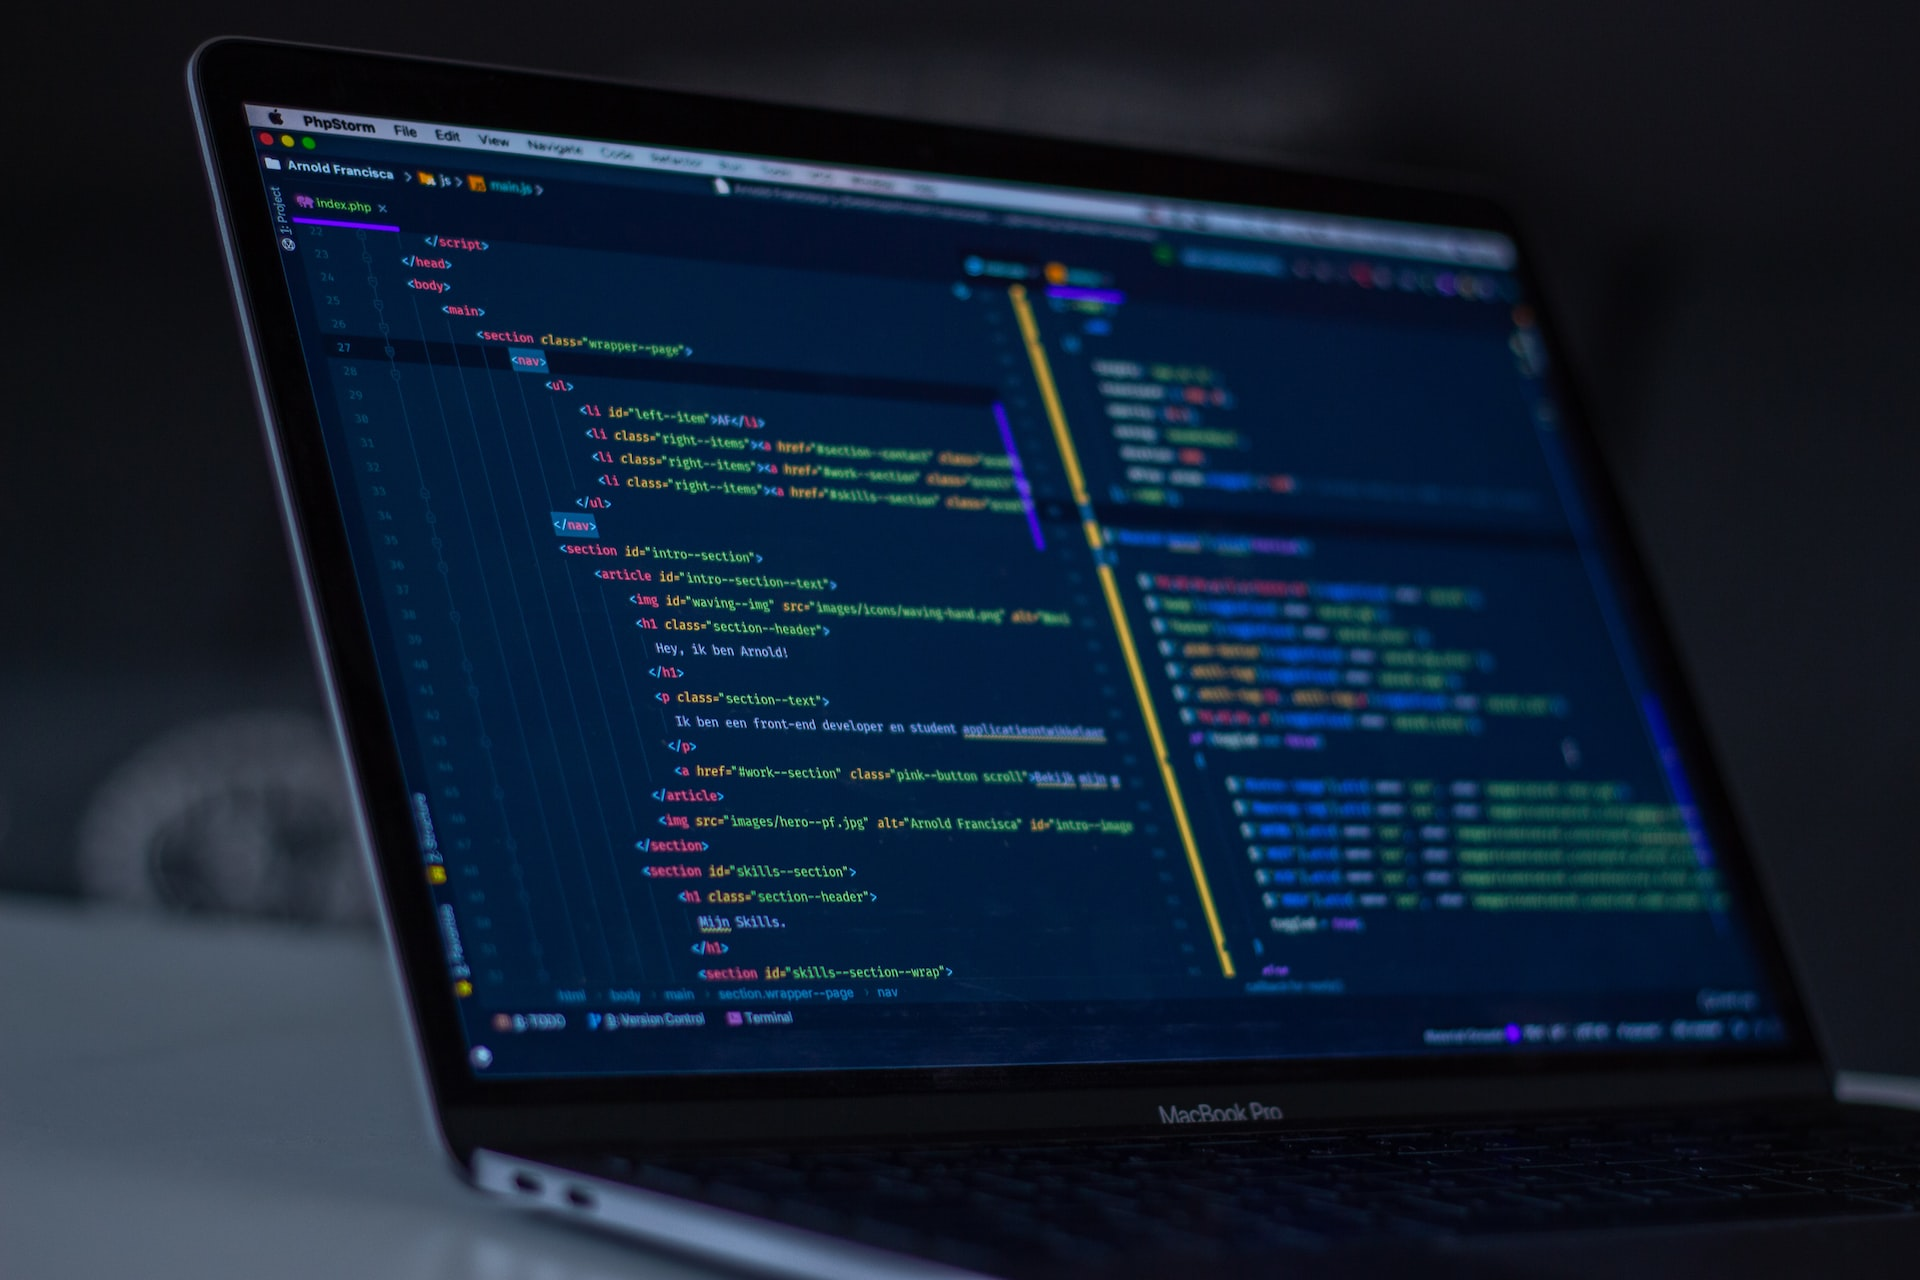
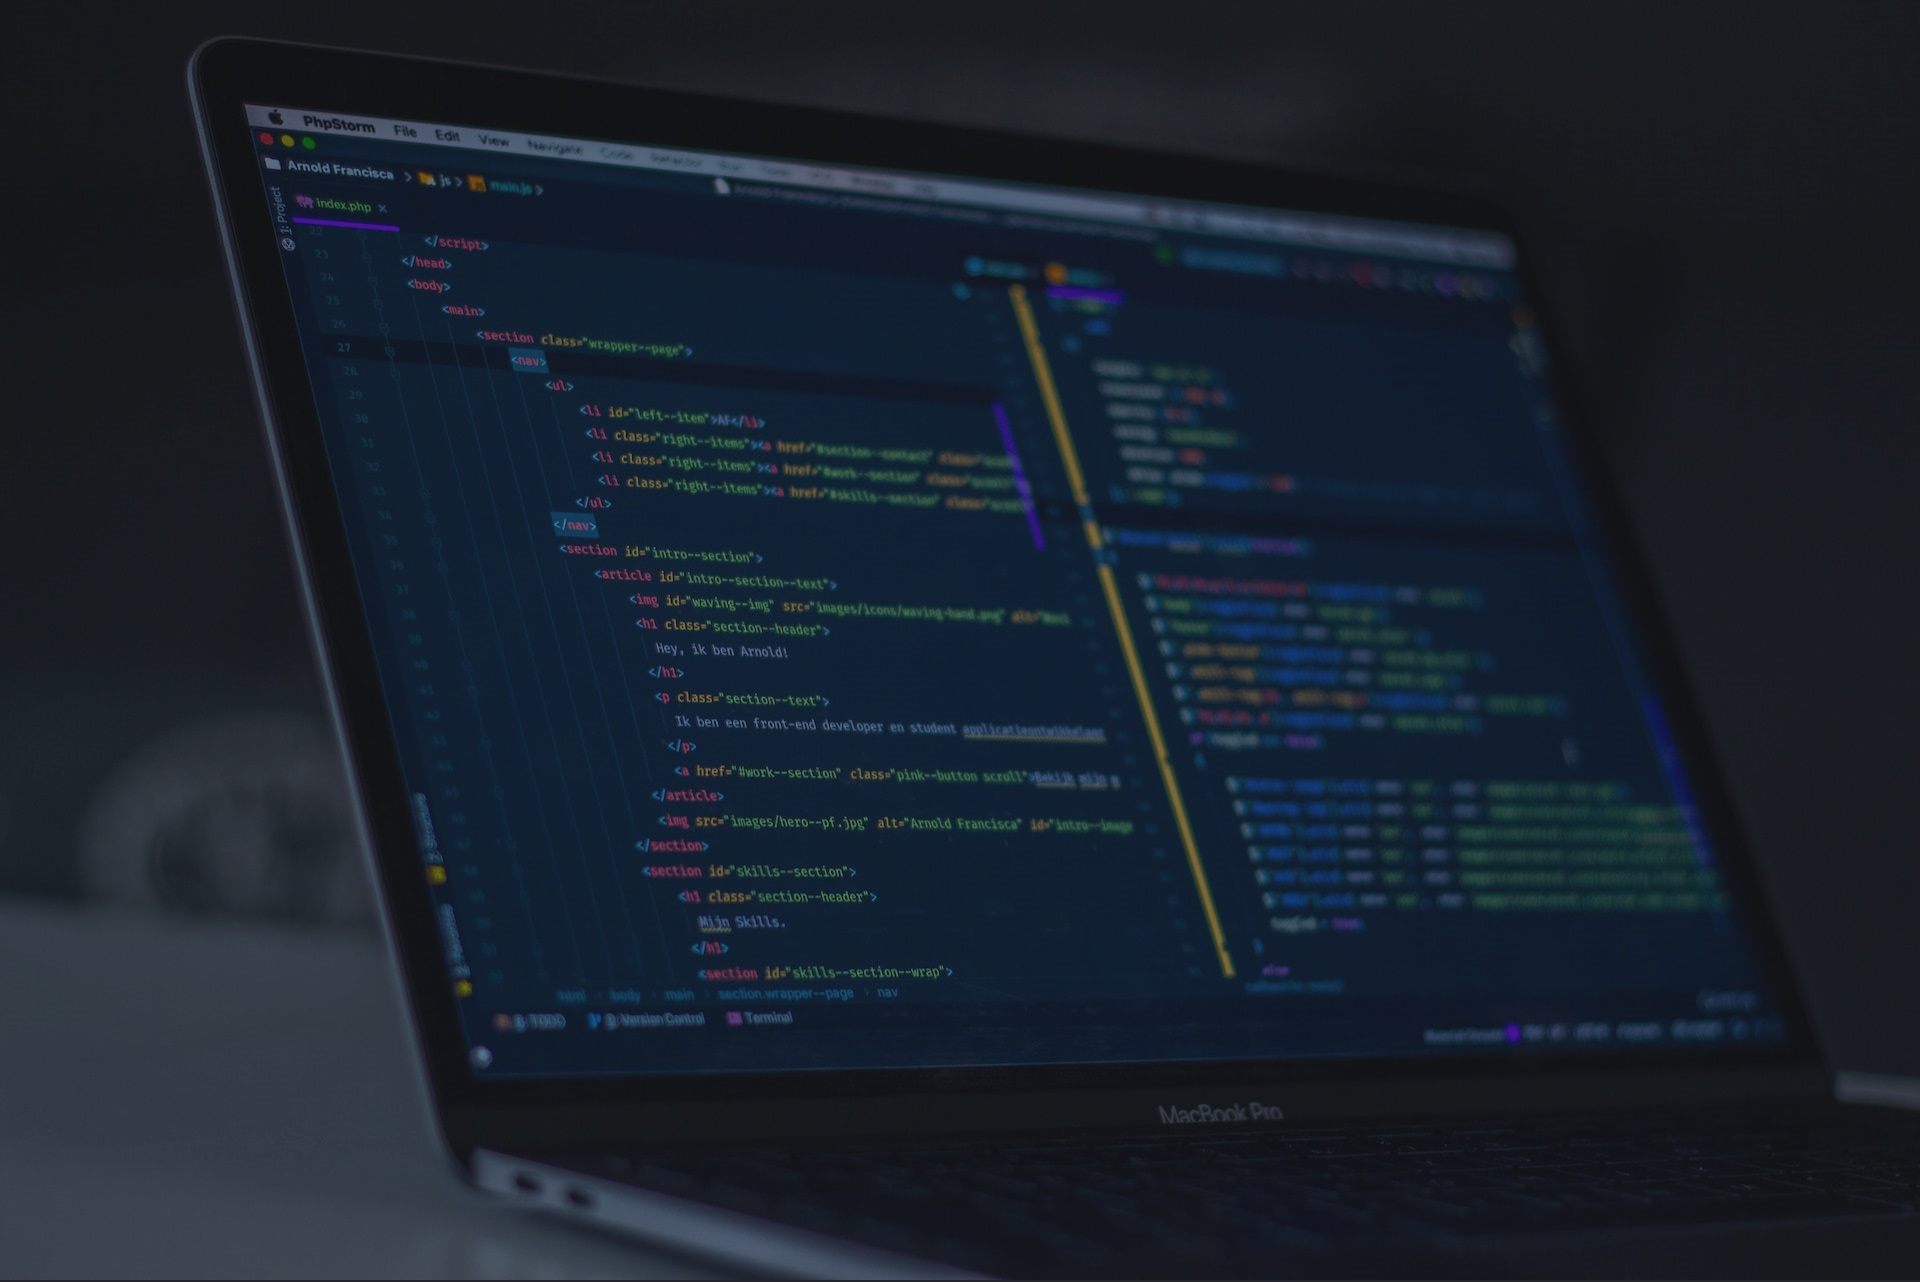
feat(hero): improve seo and image with rendering opacity via img file

diff --git a/src/components/sections/Hero/Hero.tsx b/src/components/sections/Hero/Hero.tsx
@@ -3,8 +3,8 @@ import Image from "next/image";
 
 // Functions
 const Hero = () => (
-  <section className="relative flex h-full min-h-[60vh] flex-col justify-end bg-[#212529]">
-    <div className="page-width z-10 flex flex-col gap-4 p-24">
+  <section className="relative flex h-full min-h-[60vh] flex-col justify-end bg-[url(/img/hero-bg.jpg)] bg-cover bg-center">
+    <div className="page-width flex flex-col gap-4 p-24">
       <h1 className="max-w-[30ch]">
         Passionate Frontend Developer Driven by Learning and Challenges
       </h1>
@@ -13,12 +13,6 @@ const Hero = () => (
         excellent user experience.
       </p>
     </div>
-    <Image
-      src="/img/hero-bg.jpg"
-      alt="Hero image programming"
-      className="object-cover opacity-50"
-      fill
-    />
   </section>
 );
 
